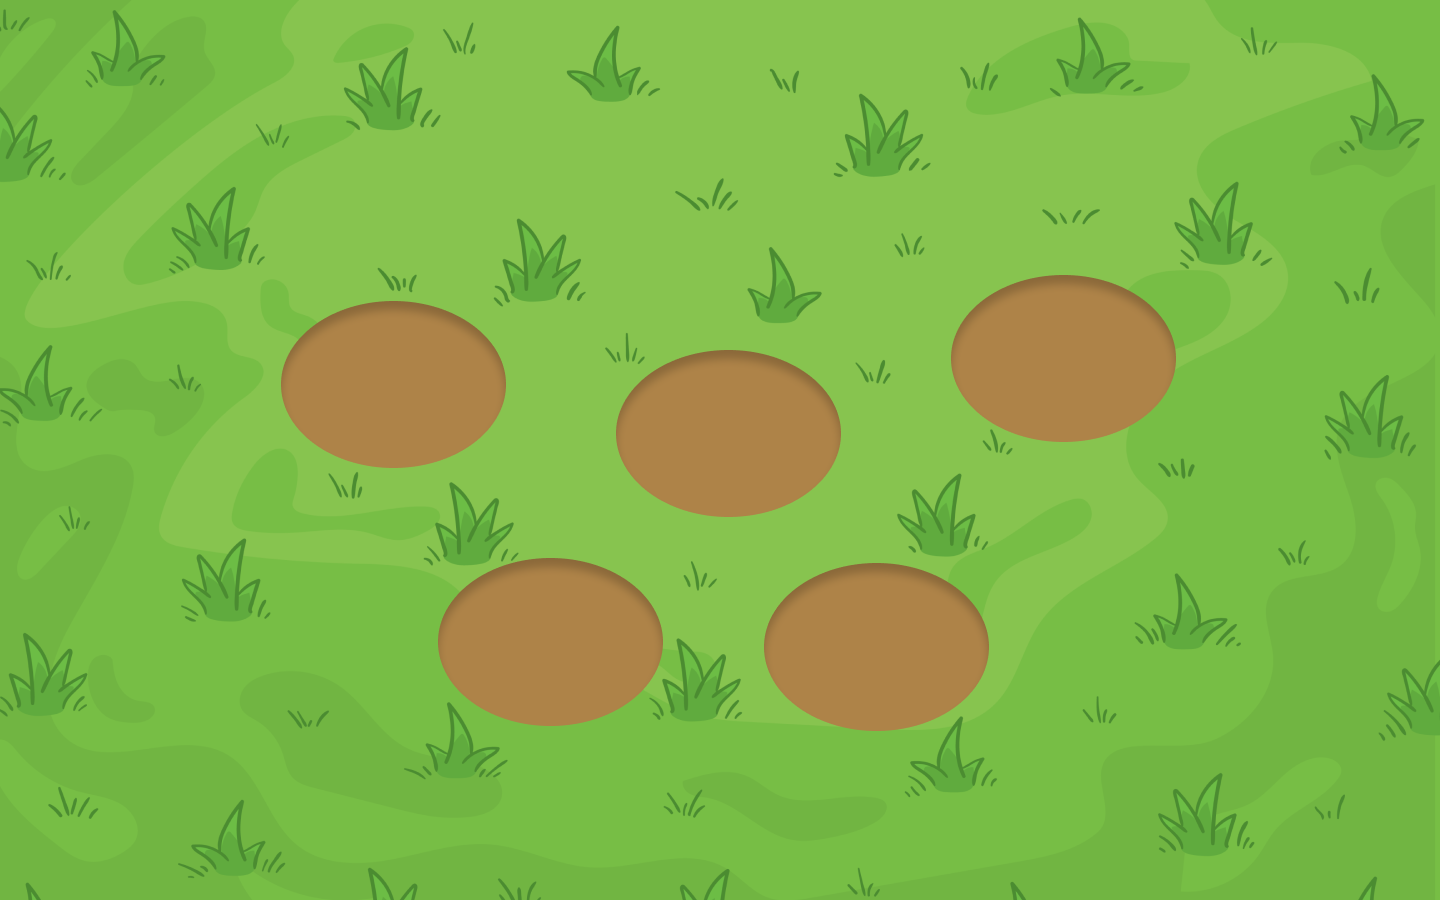
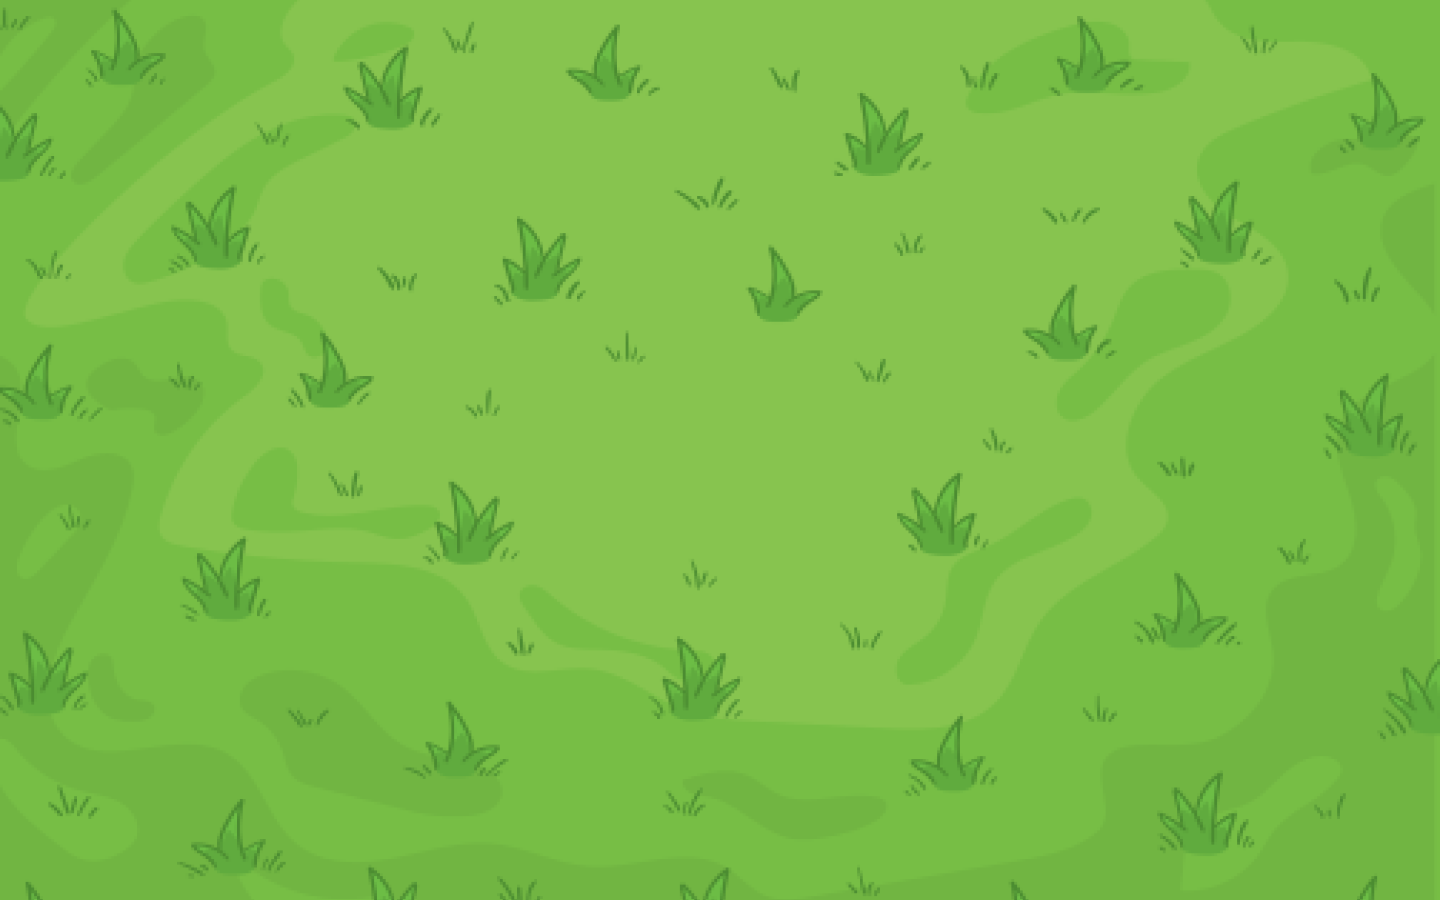
fix field

diff --git a/js/main.js b/js/main.js
@@ -18,7 +18,6 @@ const data = {
 
 // Elements
 const lives = document.getElementById('lives');
-const main = document.getElementById('main');
 const score = document.getElementById('score');
 const start = document.getElementById('start');
 
@@ -50,7 +49,8 @@ class Game {
     }
   }
 
-	handleClick(rndEl, timerId) {
+	handleClick(rndEl, img, hole, timerId) {
+    console.log(rndEl[0]);
 		this.isMouse = (rndEl[0] === 'mouse');
 
     if (this.isMouse) {
@@ -60,26 +60,20 @@ class Game {
       this.checkLives(--this.lives);
     }
 
-    main.innerHTML = null;
-
     if (!this.lives) {
       clearTimeout(timerId);
-      const test = document.createElement('div');
-      test.style.textAlign = 'center';
-      main.appendChild(test);
-      test.textContent = 'Game Over!!!';
       this.isRunning = false;
+      console.log('Game Over ;)');
     }
+
+    hole.removeChild(img);
 	}
 
 	createEl() {
     if (!this.isRunning) return;
 
-    main.innerHTML = null;
-
-    const test = document.createElement('div');
-    test.style.textAlign = 'center';
-    main.appendChild(test);
+    const holesEl = document.querySelectorAll('.hole');
+    holesEl.forEach(el => el.innerHTML = '');
     
     const emoji = Object.entries(data.emoji);
     const holes = data.holes;
@@ -96,19 +90,18 @@ class Game {
       this.counter = 0;
       rndEl = emoji[0];
     }
-
-    test.textContent = `${rndEl[0]} ${rndHole}`;
 		
     const img = document.createElement('img');
     img.src = `./images/emoji/${rndEl[rndEl.length - 1]}.png`;
-    img.classList.add('emoji', rndHole);
-    main.appendChild(img);
+    img.classList.add('emoji');
+    const hole = document.getElementsByClassName(rndHole)[0];
+    hole.appendChild(img);
 
     const timerId = setTimeout(() => {
         this.createEl();
     }, 2000);
 
-    img.addEventListener('click', () => this.handleClick(rndEl, timerId));
+    img.addEventListener('click', () => this.handleClick(rndEl, img, hole, timerId));
 	}
 
 	start() {

diff --git a/styles/styles.css b/styles/styles.css
@@ -5,7 +5,8 @@ html, body {
 }
 
 body {
-  background: url(../images/zone.png) 50% 40%;
+  background: url(../images/zone.png) 50% 50% no-repeat;
+  background-size: cover;
   font-family: Montserrat, sans-serif;
   height: 100%;
   margin: 0;
@@ -168,7 +169,7 @@ body {
 }
 
 .main {
-  height: 550px;
+  height: 450px;
   margin: 0 auto;
   position: relative;
   width: 950px;
@@ -178,42 +179,51 @@ body {
   cursor: pointer;
   height: 120px;
   width: 120px;
-  animation: emoji 1.5s;
+  animation: emoji 1.5s forwards;
+}
+
+.hole {
+  align-items: flex-end;
+  background: #AE8348;
+  border-radius: 50%;
+  box-shadow: inset 0px 9px 10px rgba(0, 0, 0, 0.2);
+  display: flex;
+  height: 168px;
+  justify-content: center;
+  position: absolute;
+  width: 225px;
 }
 
 .hole-1 {
-  position: absolute;
-  left: 85px;
-  top: 90px;
+  left: 0;
+  top: 30px;
 }
 
 .hole-2 {
-  position: absolute;
-  left: 420px;
-  top: 140px;
+  left: 50%;
+  top: 100px;
+  transform: translateX(-50%);
 }
 
 .hole-3 {
-  position: absolute;
-  left: 755px;
-  top: 65px;
+  right: 0;
+  top: 0;
 }
 
 .hole-4 {
-  position: absolute;
-  left: 245px;
-  top: 350px;
+  bottom: 0;
+  left: 100px;
 }
 
 .hole-5 {
-  position: absolute;
-  left: 570px;
-  top: 355px;
+  bottom: 0;
+  right: 100px;
 }
 
 @keyframes emoji {
   0% {
     opacity: 0;
+    transform: translateY(20px);
   }
 
   50% {
@@ -222,5 +232,6 @@ body {
 
   100% {
     opacity: 1;
+    transform: translateY(-20px);
   }
 }

diff --git a/index.html b/index.html
@@ -39,7 +39,13 @@
     </div>
   </header>
 
-  <main id="main" class="main"></main>
+  <main id="main" class="main">
+    <div class="hole hole-1"></div>
+    <div class="hole hole-2"></div>
+    <div class="hole hole-3"></div>
+    <div class="hole hole-4"></div>
+    <div class="hole hole-5"></div>
+  </main>
 
   <script src="./js/main.js"></script>
 </body>
